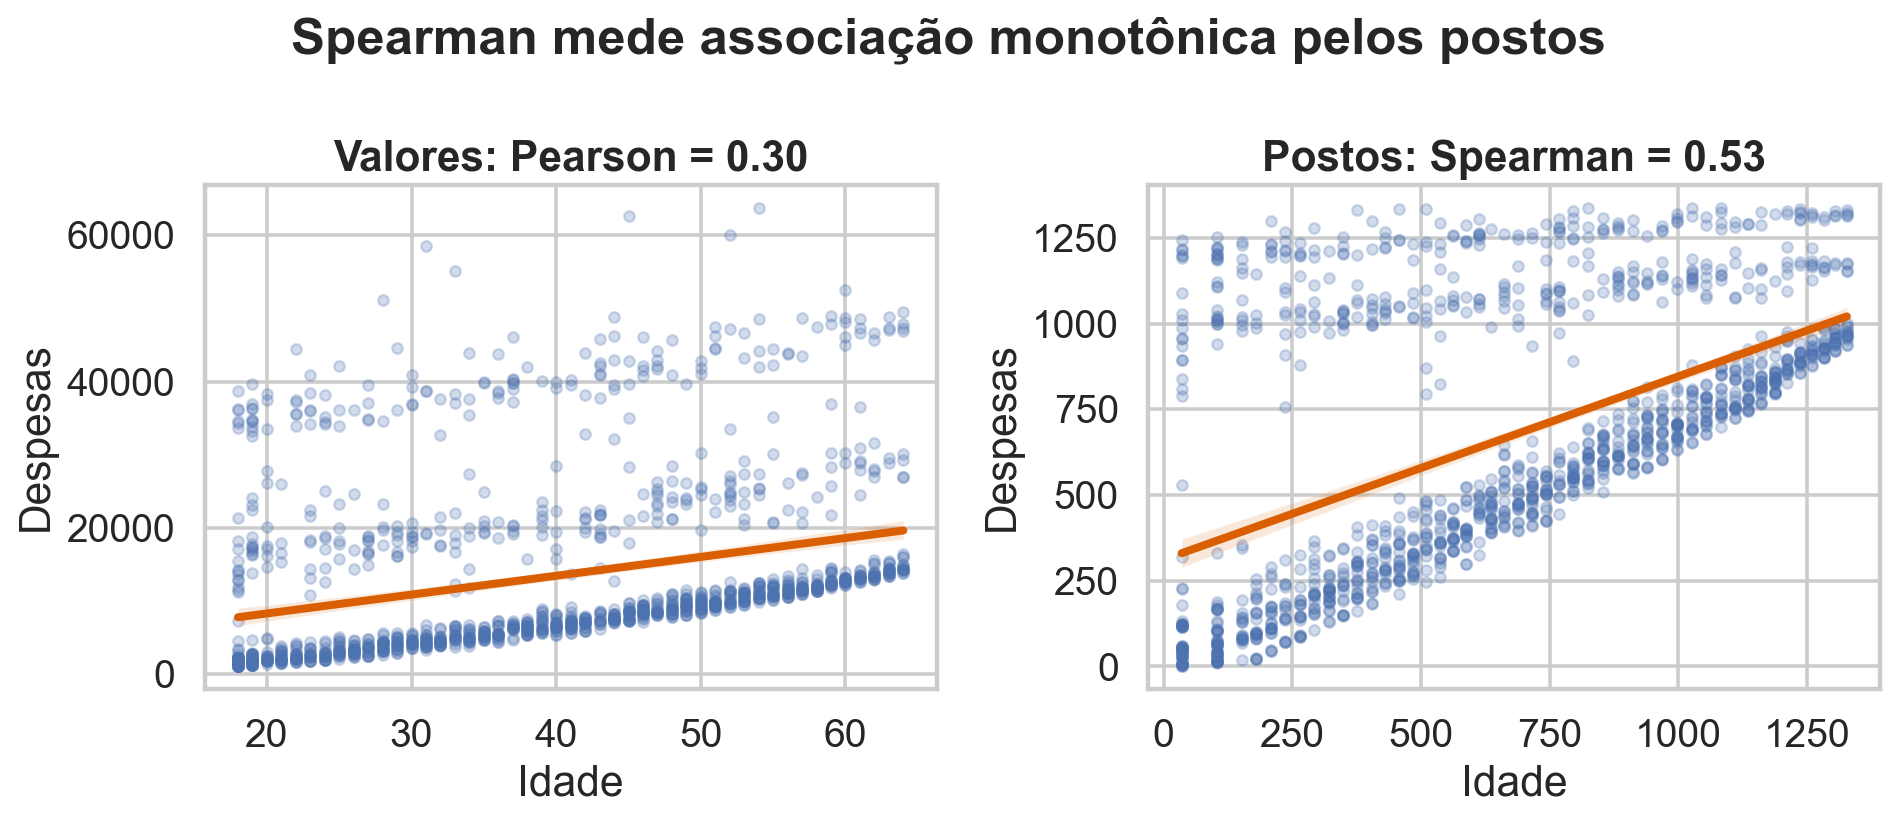
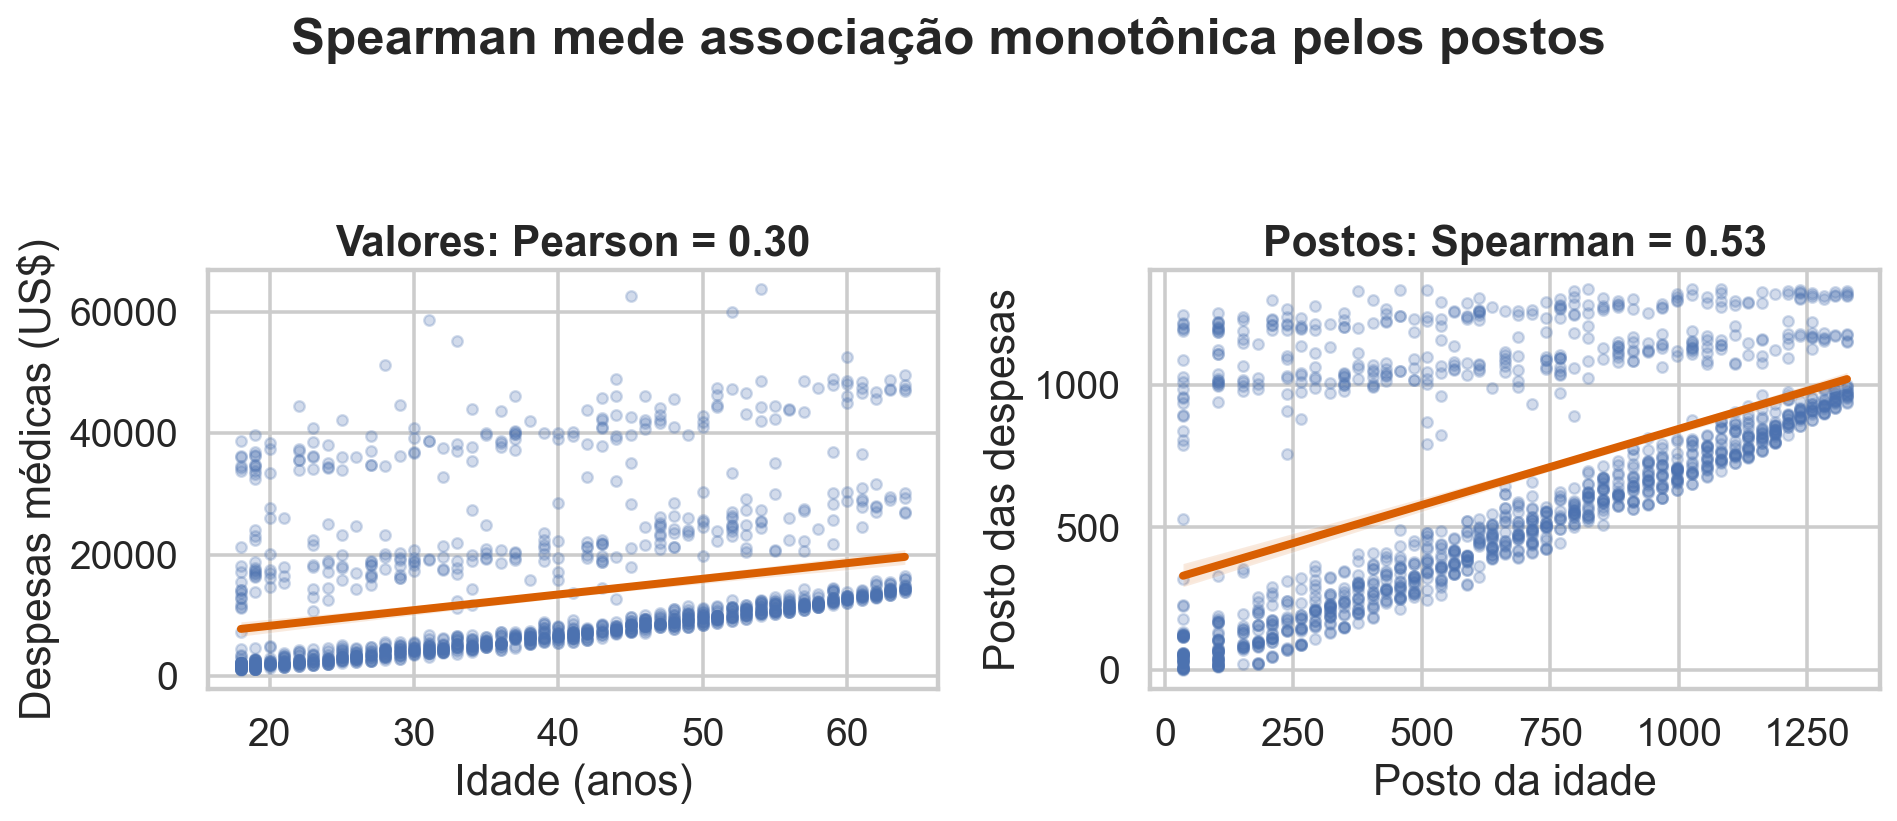
Corrige eixos de Pearson e Spearman na Aula 16

diff --git a/exemplos/16-correlacao/generate_figures.py b/exemplos/16-correlacao/generate_figures.py
@@ -138,12 +138,15 @@ rs = float(spearmanr(df.age, df.charges)[0])
 fig, axes = plt.subplots(1, 2, figsize=(11.5, 5.0))
 sns.regplot(df, x="age", y="charges", scatter_kws={"alpha": .25, "s": 20}, line_kws={"color": ORANGE}, ax=axes[0])
 axes[0].set_title(f"Valores: Pearson = {rp:.2f}")
+axes[0].set(xlabel="Idade (anos)", ylabel="Despesas médicas (US$)")
 ranked = df[["age", "charges"]].rank(method="average")
 sns.regplot(x=ranked.age, y=ranked.charges, scatter_kws={"alpha": .25, "s": 20}, line_kws={"color": ORANGE}, ax=axes[1])
 axes[1].set_title(f"Postos: Spearman = {rs:.2f}")
-for ax in axes: ax.set(xlabel="Idade", ylabel="Despesas")
+axes[1].set(xlabel="Posto da idade", ylabel="Posto das despesas")
 fig.suptitle("Spearman mede associação monotônica pelos postos", fontweight="bold")
-finish("pearson-spearman.png")
+fig.tight_layout(rect=[0, 0, 1, .90])
+fig.savefig(OUT / "pearson-spearman.png", bbox_inches="tight", facecolor="white")
+plt.close(fig)
 
 # 8. Pearson zero não implica ausência de relação.
 xs = np.linspace(-3, 3, 250)
